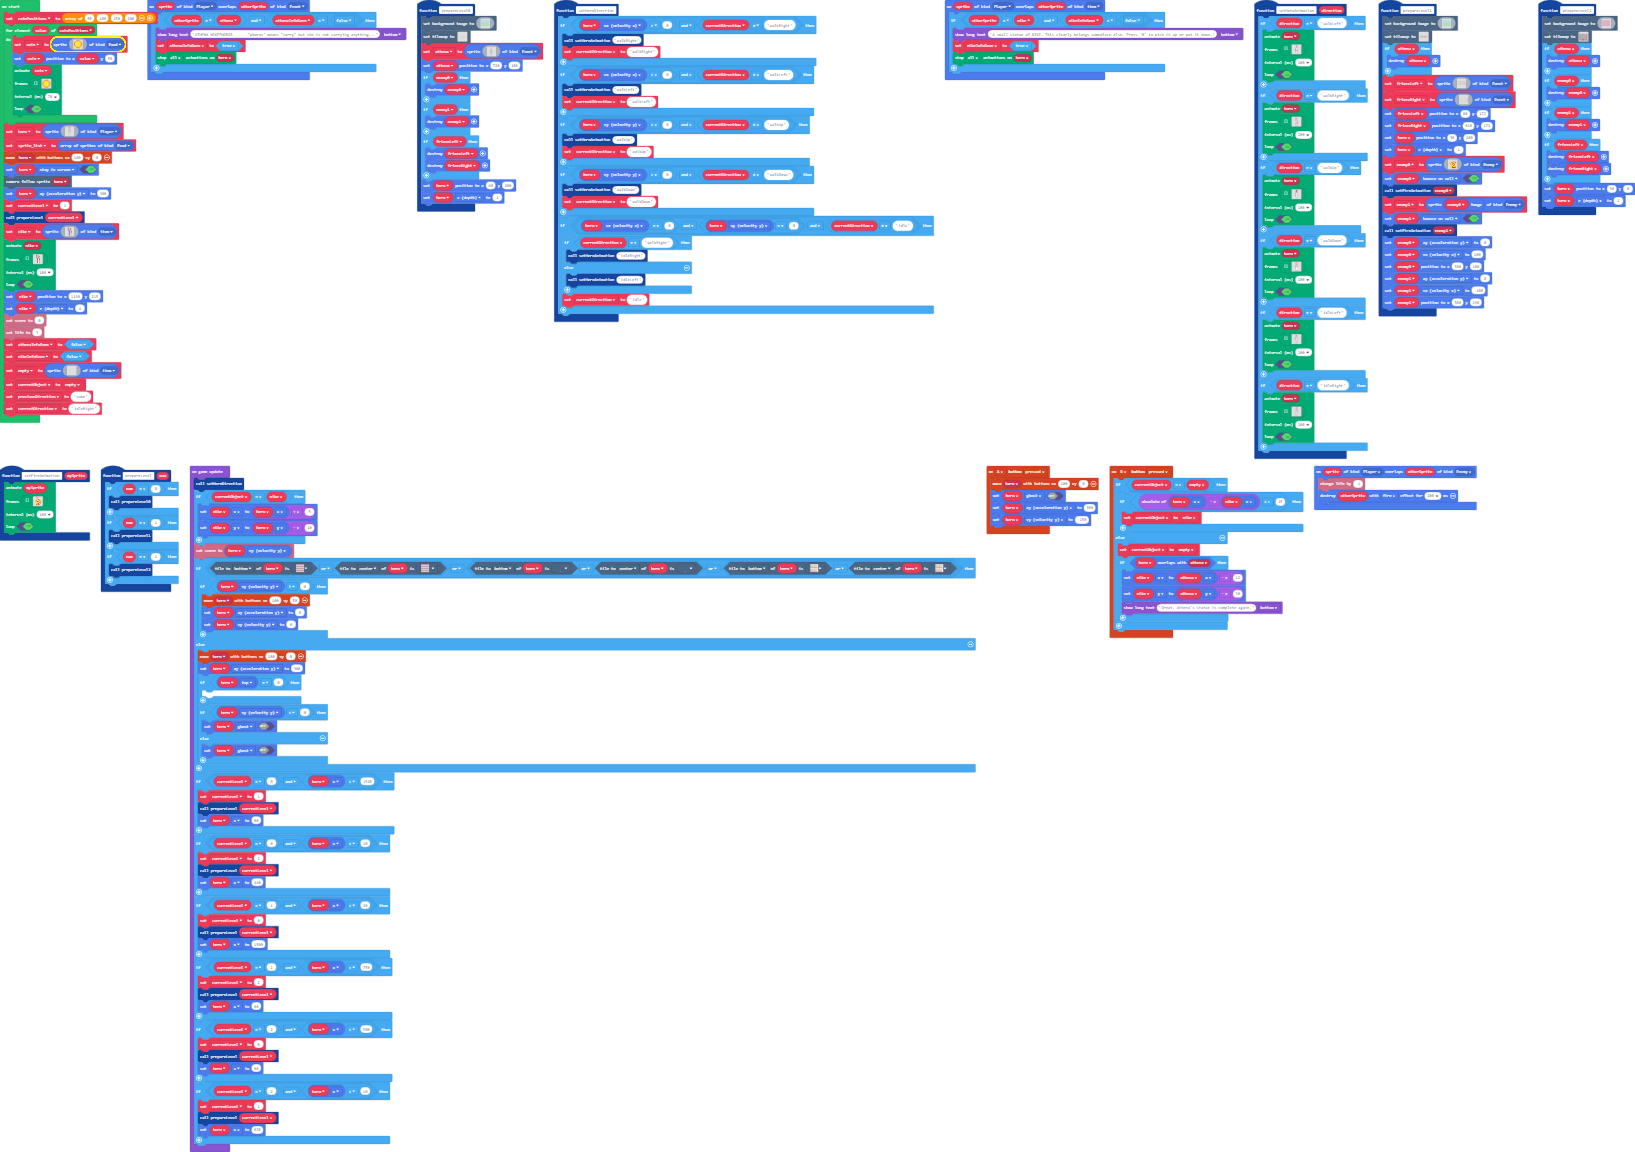
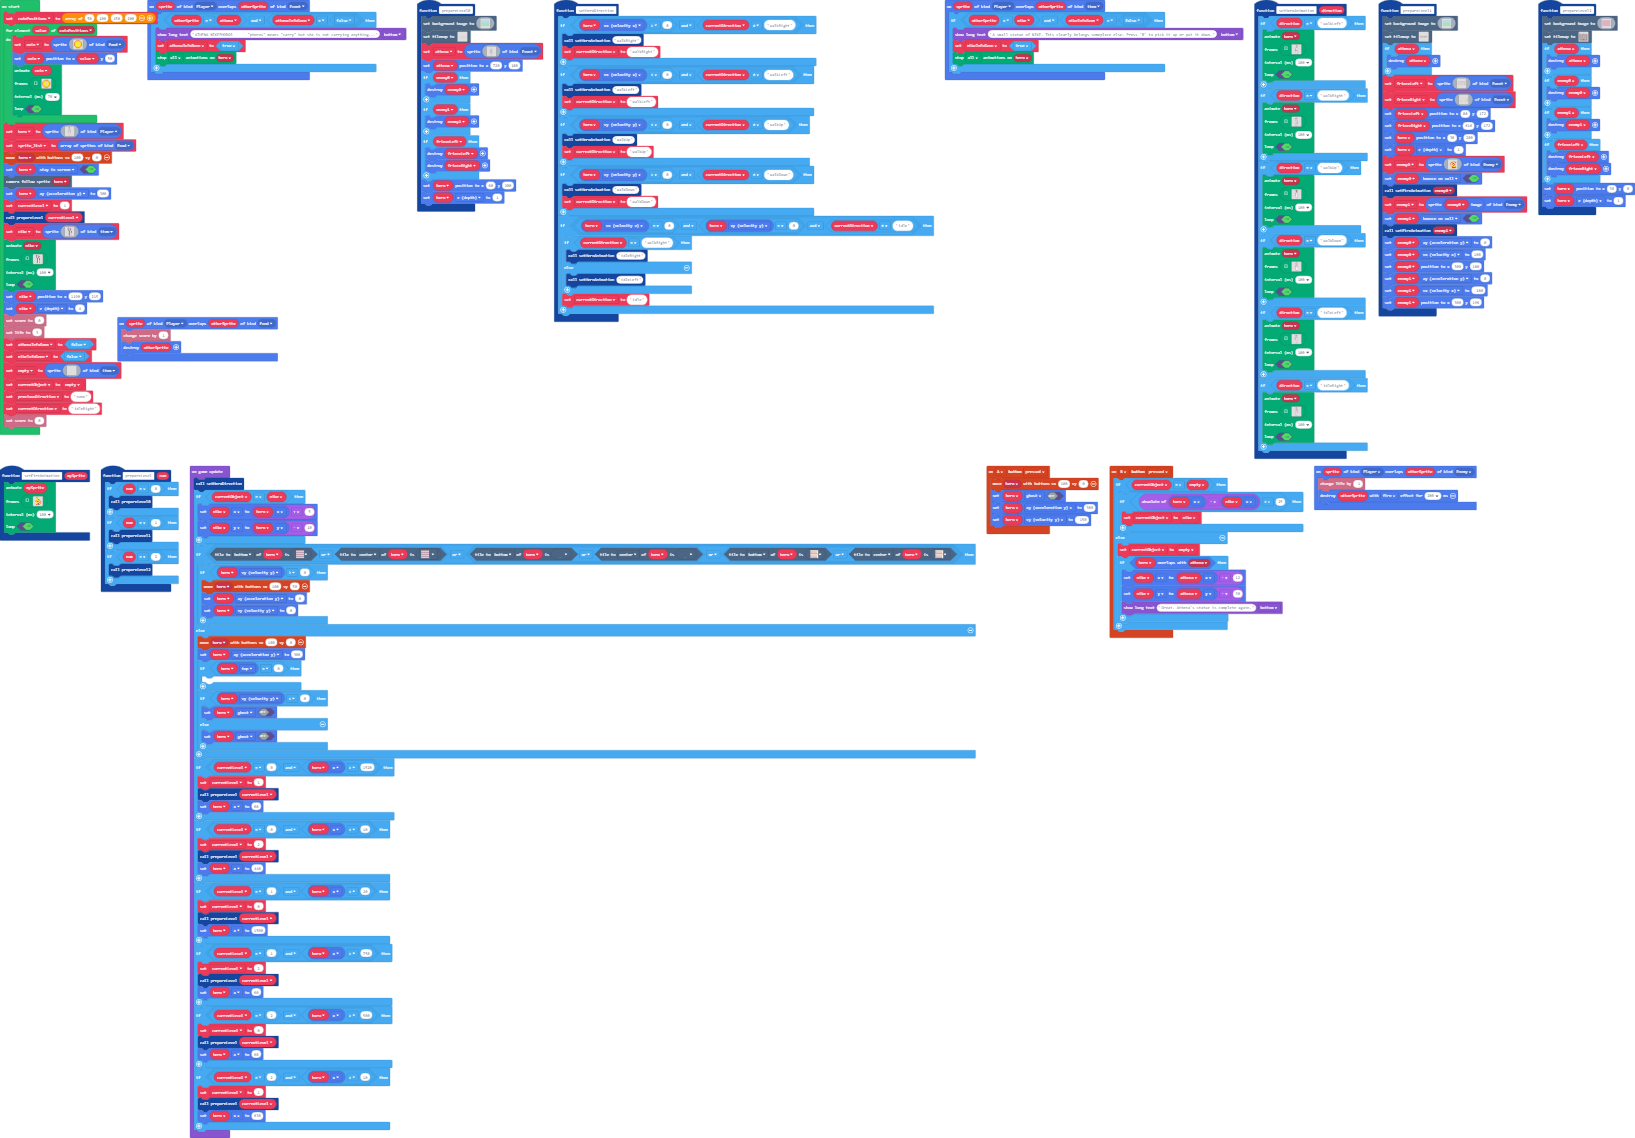
count coins

diff --git a/main.ts b/main.ts
@@ -2235,6 +2235,10 @@ controller.B.onEvent(ControllerButtonEvent.Pressed, function () {
         }
     }
 })
+sprites.onOverlap(SpriteKind.Player, SpriteKind.Food, function (sprite, otherSprite) {
+    info.changeScoreBy(1)
+    otherSprite.destroy()
+})
 controller.A.onEvent(ControllerButtonEvent.Pressed, function () {
     controller.moveSprite(hero, 100, 0)
     hero.setFlag(SpriteFlag.Ghost, false)
@@ -3050,13 +3054,13 @@ empty = sprites.create(img`
 currentObject = empty
 let previousDirection = "none"
 currentDirection = "idleRight"
+info.setScore(0)
 game.onUpdate(function () {
     setHeroDirection()
     if (currentObject == nike) {
         nike.x = hero.x + 5
         nike.y = hero.y - 10
     }
-    info.setScore(hero.vy)
     if (hero.tileKindAt(TileDirection.Bottom, myTiles.tile6) || hero.tileKindAt(TileDirection.Center, myTiles.tile6) || (hero.tileKindAt(TileDirection.Bottom, myTiles.tile83) || hero.tileKindAt(TileDirection.Center, myTiles.tile83) || (hero.tileKindAt(TileDirection.Bottom, myTiles.tile82) || hero.tileKindAt(TileDirection.Center, myTiles.tile82)))) {
         if (hero.vy >= 0) {
             controller.moveSprite(hero, 100, 50)
